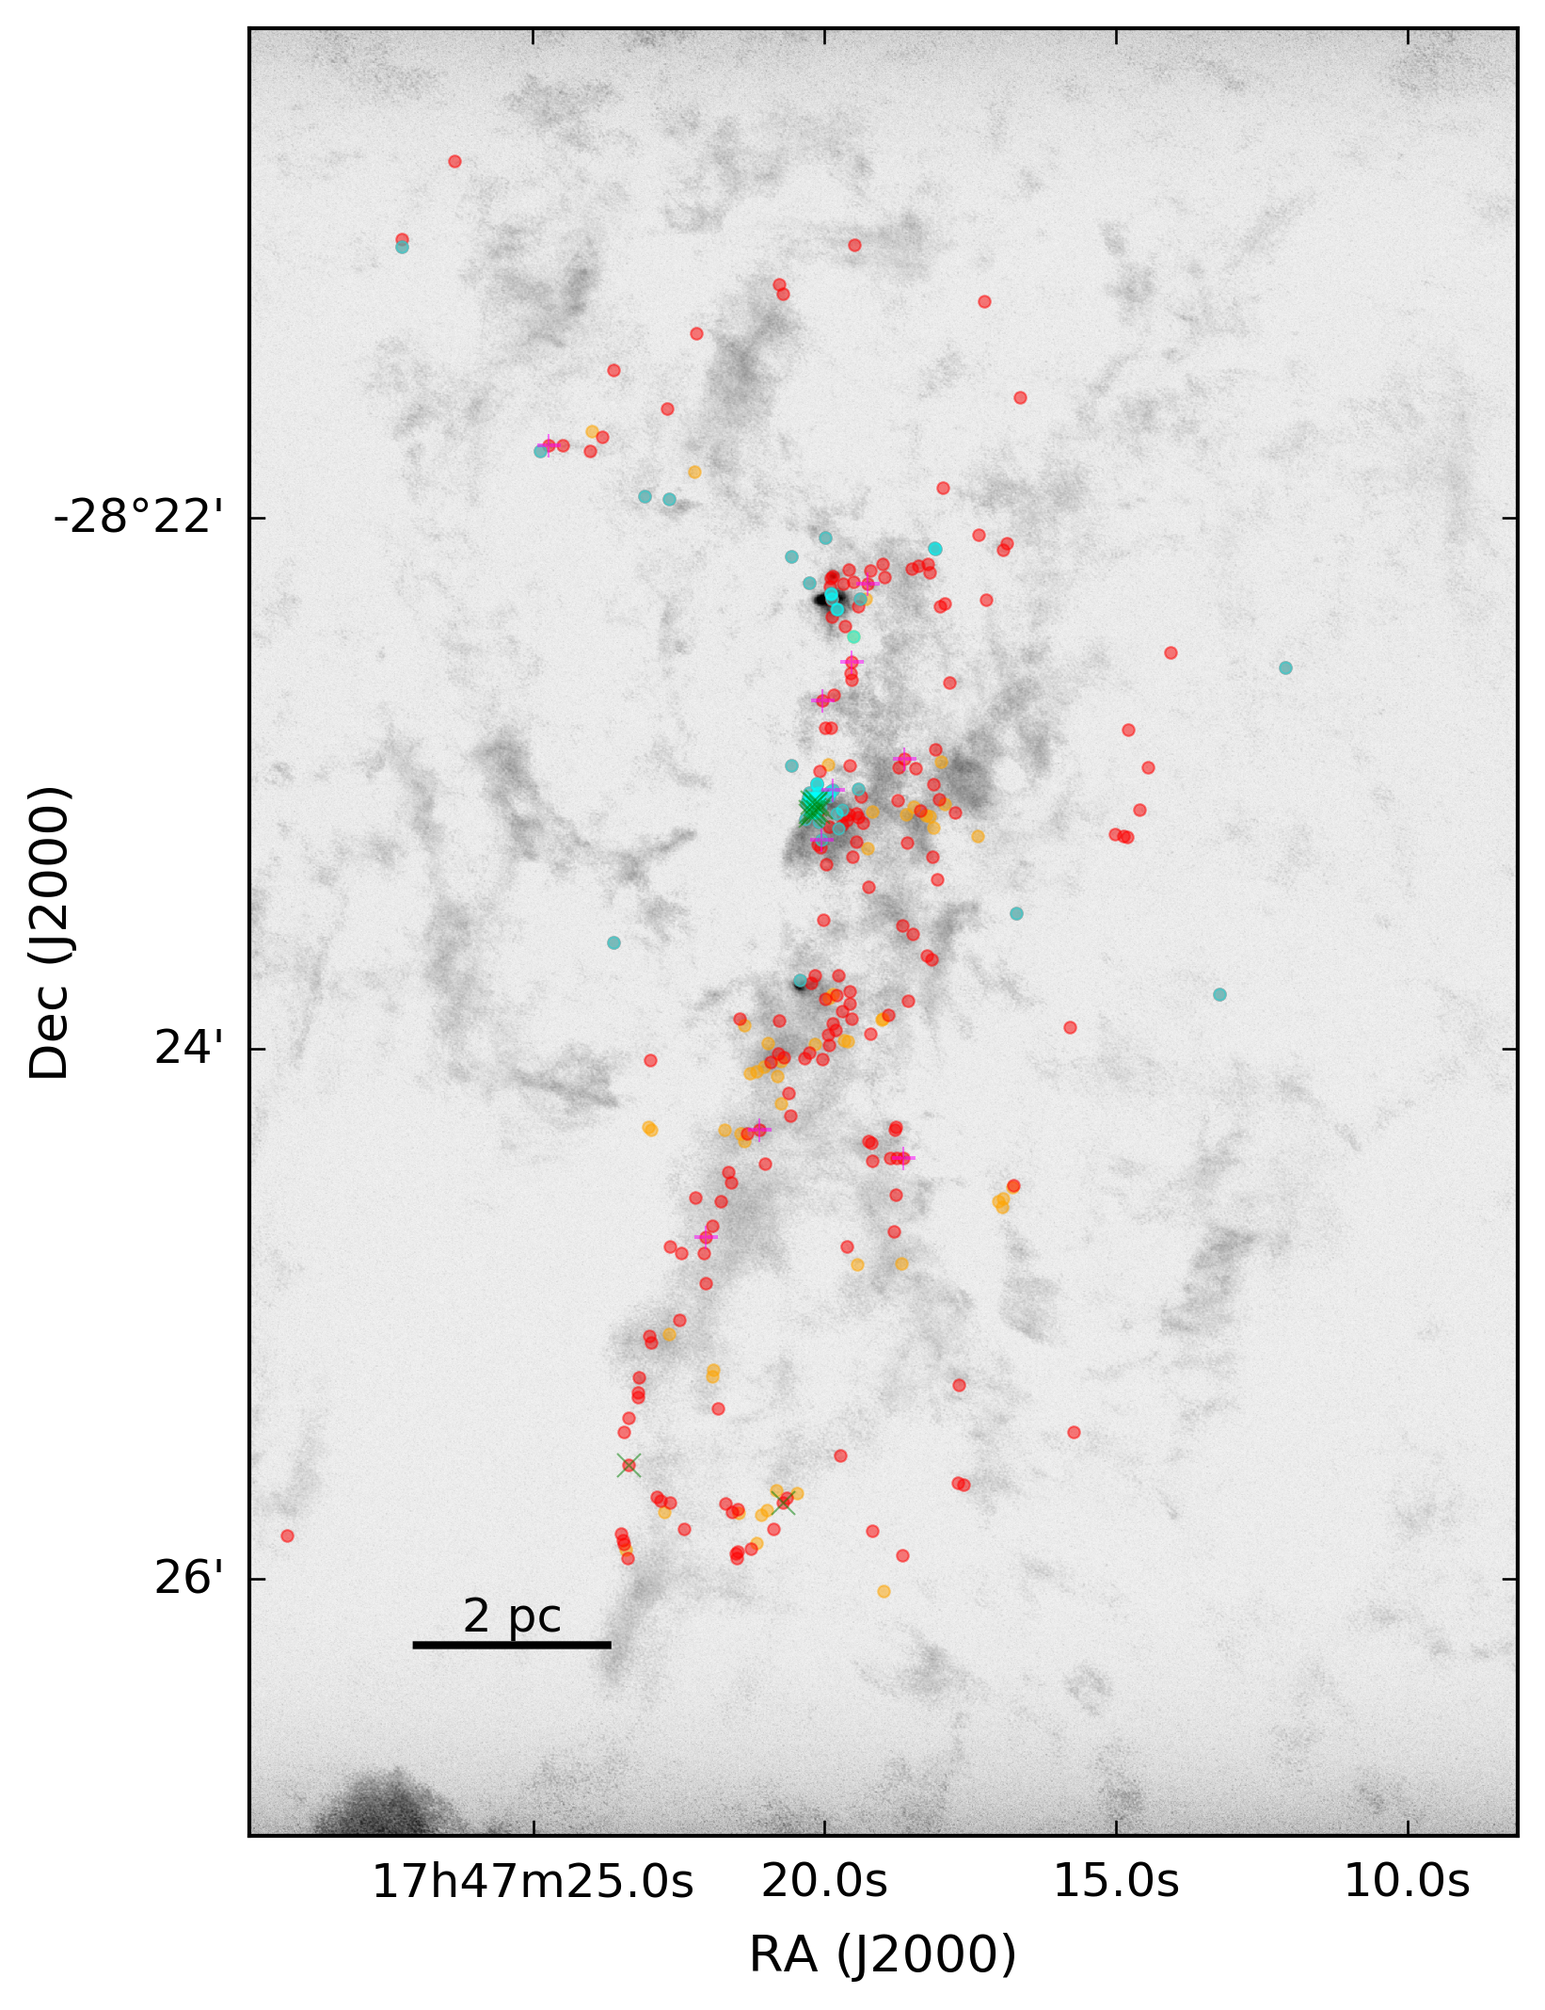
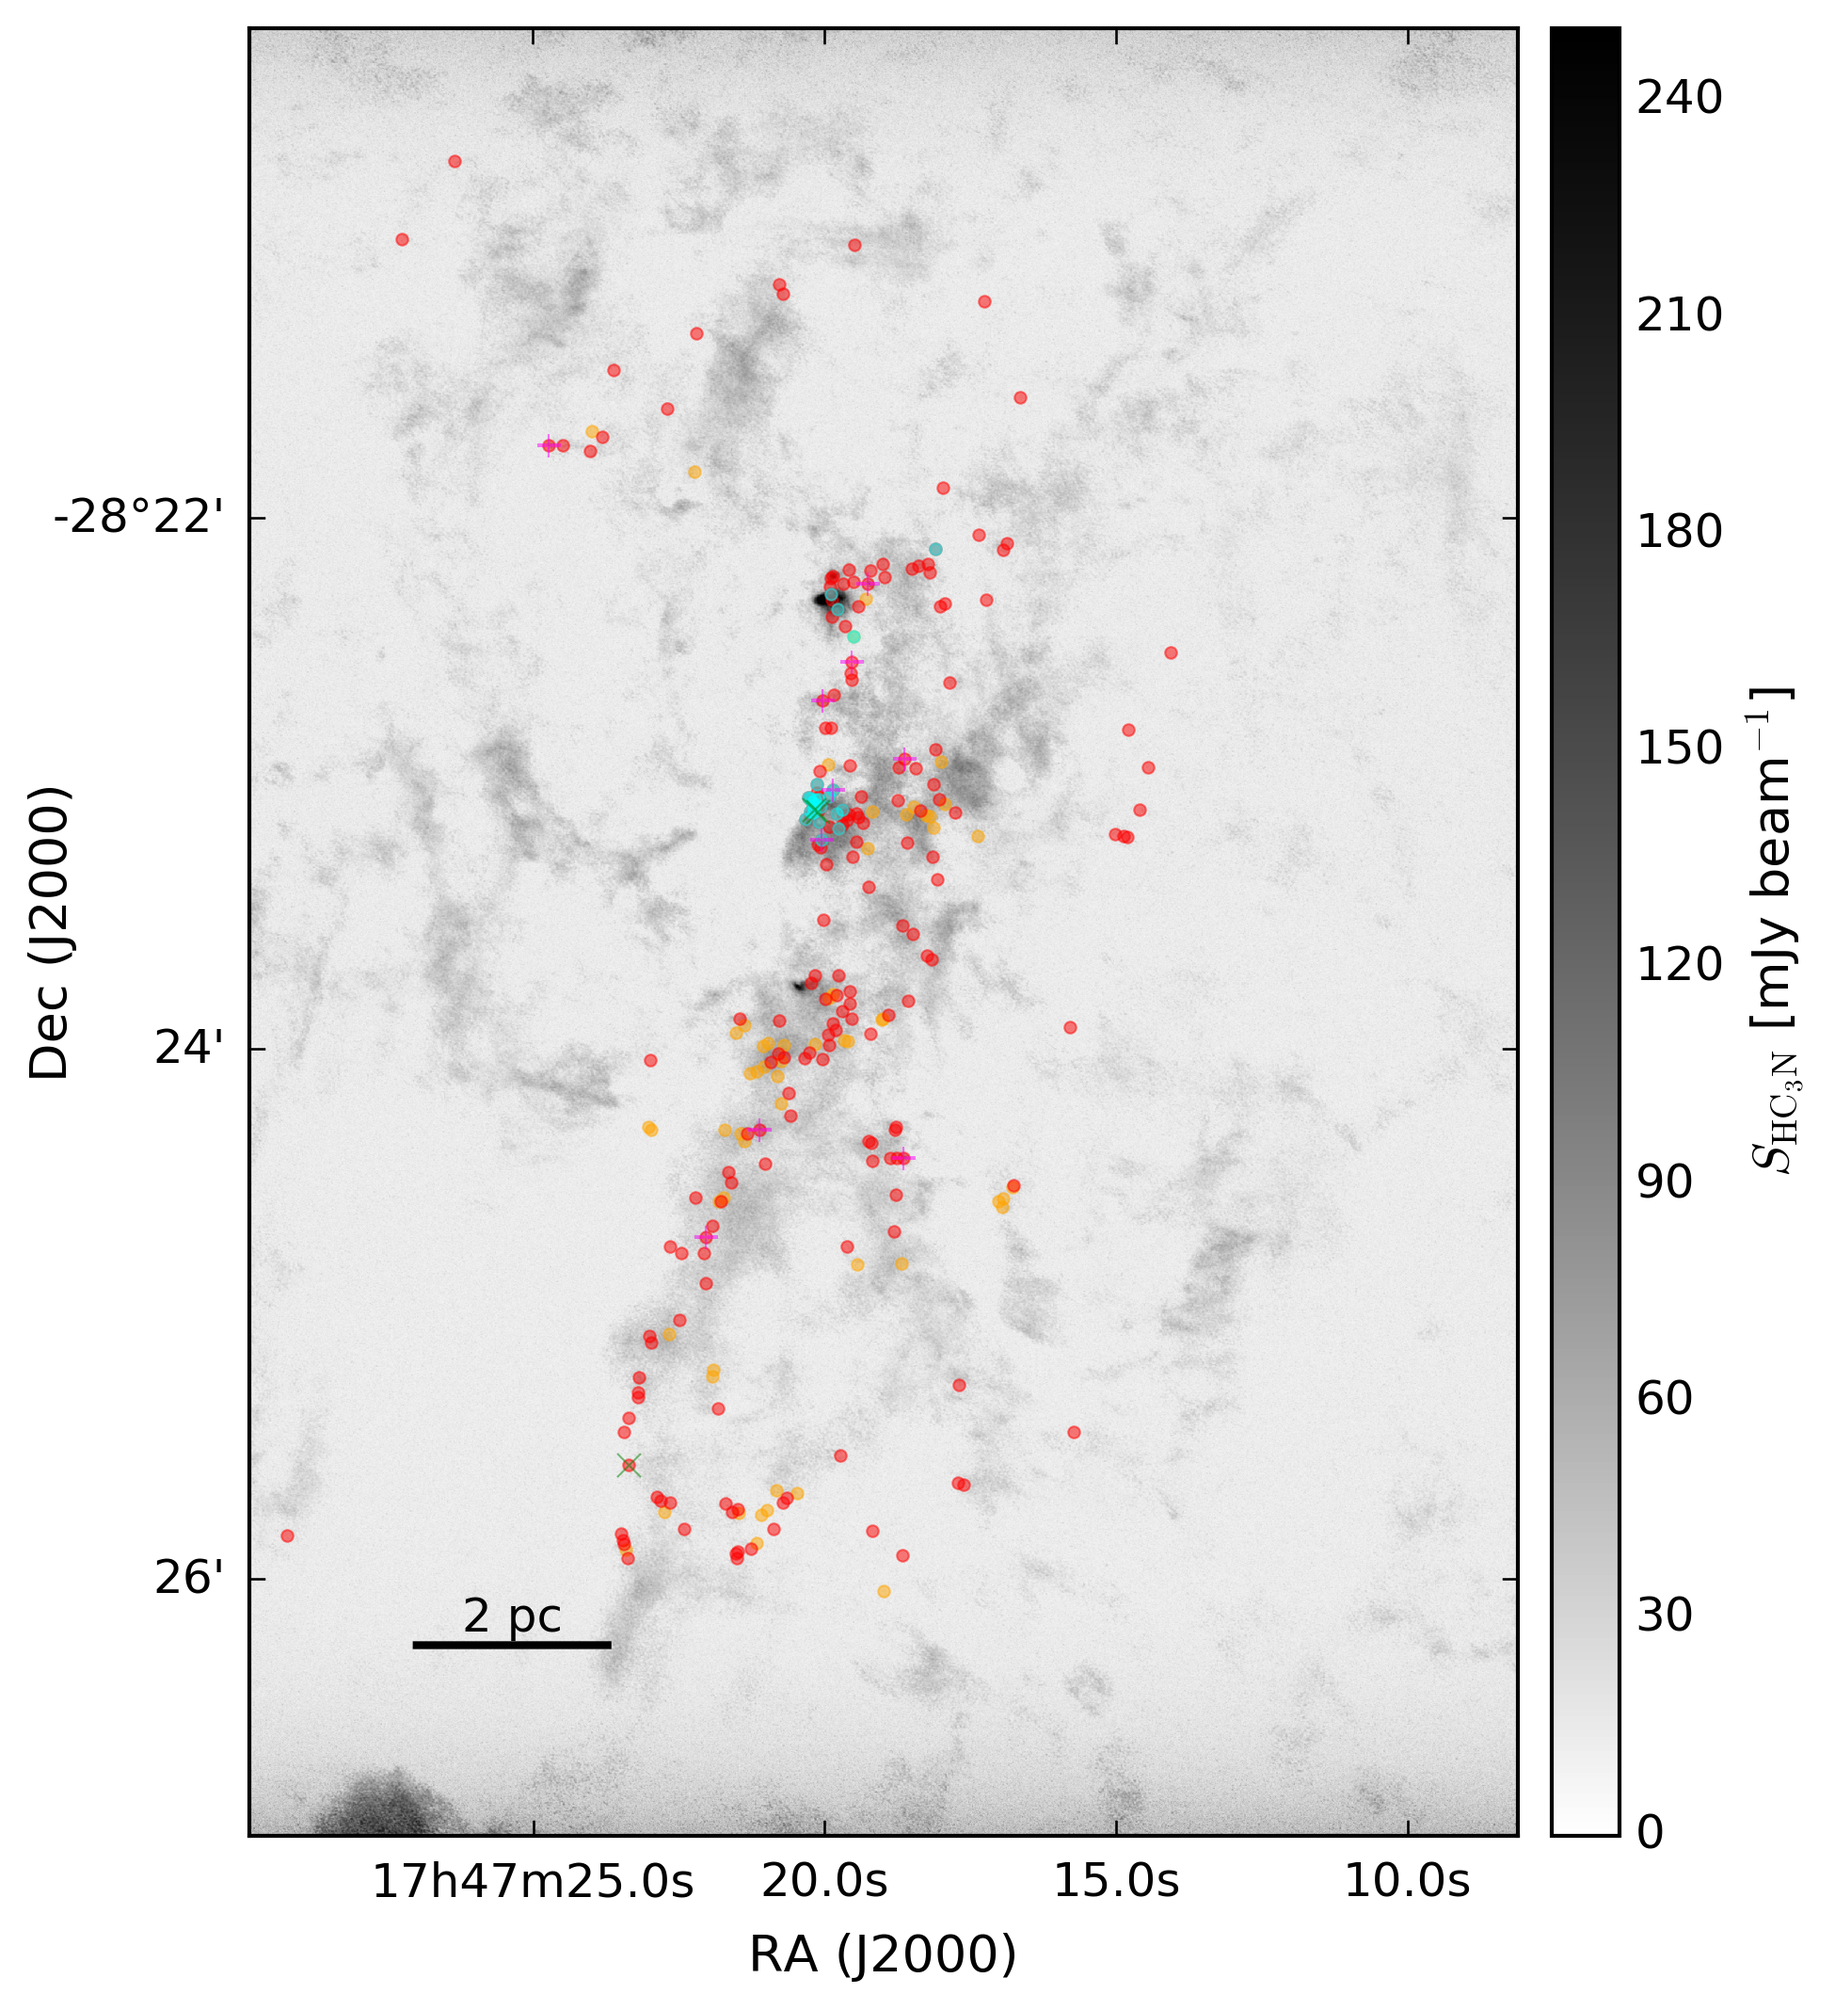
figure fixes

diff --git a/plot_codes/pointsource_overlay.py b/plot_codes/pointsource_overlay.py
@@ -104,6 +104,10 @@ con = ax.contour(cx,
 #ax.axis(lims)
 ax.axis([x1,x2,y1,y2])
 
+
+fig.canvas.draw()
+assert np.abs(ax.bbox._bbox.x1 - 0.95) > 1e-4
+
 cax = fig.add_axes([ax.bbox._bbox.x1+0.01, ax.bbox._bbox.y0, 0.02,
                     ax.bbox._bbox.y1-ax.bbox._bbox.y0])
 cb = fig.colorbar(mappable=im, cax=cax)
@@ -133,8 +137,9 @@ ra.set_ticks(exclude_overlapping=True)
 dec.ticklabels.set_fontsize(tick_fontsize)
 dec.set_ticks(exclude_overlapping=True)
 
-ax.imshow(hdu2.data.squeeze()*1e3, transform=ax.get_transform(wcs.WCS(hdu2.header).celestial),
-          vmax=0.45*1e3, cmap=pl.cm.gray_r, origin='lower', )
+im = ax.imshow(hdu2.data.squeeze()*1e3,
+               transform=ax.get_transform(wcs.WCS(hdu2.header).celestial),
+               vmax=0.45*1e3, cmap=pl.cm.gray_r, origin='lower', )
 tr_fk5 = ax.get_transform("fk5")
 #(x1,y1),(x2,y2) = (1807,2100),(2221,2697)
 (x1,y1),(x2,y2) = mywcs.wcs_world2pix(mylims_fk5, 0)
@@ -150,19 +155,21 @@ make_scalebar(ax, scalebarpos,
               text_offset=1.0*u.arcsec,
              )
 
-cax = fig.add_axes([ax.bbox._bbox.x1+0.01, ax.bbox._bbox.y0, 0.02,
-                    ax.bbox._bbox.y1-ax.bbox._bbox.y0])
-cb = fig.colorbar(mappable=im, cax=cax)
-cb.set_label("$S_{20 cm}$ [mJy beam$^{-1}$]")
-
 #coredots, = ax.plot(cores.ra, cores.dec, 'r.', transform=tr_fk5, markersize=markersize,
 #                    alpha=0.5,
 #                    zorder=50, )
 coredots = plotcores(ax, transform=tr_fk5, markersize=markersize, zorder=50,
                      alpha=0.5)
+
+fig.canvas.draw()
+assert np.abs(ax.bbox._bbox.x1 - 0.95) > 1e-4
+
+cax = fig.add_axes([ax.bbox._bbox.x1+0.01, ax.bbox._bbox.y0, 0.02,
+                    ax.bbox._bbox.y1-ax.bbox._bbox.y0])
+cb = fig.colorbar(mappable=im, cax=cax)
+cb.set_label("$S_{20 \mathrm{cm}}$ [mJy beam$^{-1}$]")
+
 fig.savefig(paths.fpath("cores_on_20cm_continuum.png"), bbox_inches='tight')
-pl.draw()
-pl.show()
 
 
 hdu_h41a = fits.open(paths.Fpath('merge/max/SgrB2_b3_7M_12M.H41a.image.pbcor_max_medsub.fits'))[0]
@@ -204,10 +211,10 @@ fig3.savefig(paths.fpath("cores_on_h41a_peak_saturated.png"), bbox_inches='tight
 
 
 
-linenames = {'HC3N': '\\cyanoacetylene',
-             'HCN': 'HCN',
-             'HNC': 'HNC',
-             'HCOp': 'HCO$^+$',
+linenames = {'HC3N': '\mathrm{HC}_3\mathrm{N}',
+             'HCN': '\mathrm{HCN}',
+             'HNC': '\mathrm{HNC}',
+             'HCOp': '\mathrm{HCO}^+',
             }
 
 for line in ("HC3N","HCN","HNC","HCOp"):
@@ -229,17 +236,22 @@ for line in ("HC3N","HCN","HNC","HCOp"):
     dec.ticklabels.set_fontsize(tick_fontsize)
     dec.set_ticks(exclude_overlapping=True)
 
-    ax.imshow(hdu_line.data.squeeze()*1e3, transform=ax.get_transform(wcs.WCS(hdu_line.header).celestial),
-              vmin=-0.0001*1e3, vmax=0.25*1e3, cmap=pl.cm.gray_r, origin='lower', norm=asinh_norm.AsinhNorm())
+    im = ax.imshow(hdu_line.data.squeeze()*1e3,
+                   transform=ax.get_transform(wcs.WCS(hdu_line.header).celestial),
+                   vmin=-0.0001*1e3, vmax=0.25*1e3, cmap=pl.cm.gray_r,
+                   origin='lower', norm=asinh_norm.AsinhNorm())
     tr_fk5 = ax.get_transform("fk5")
     #(x1,y1),(x2,y2) = (680,350),(2720,3150)
     (x1,y1),(x2,y2) = mywcs.wcs_world2pix(mylims_fk5, 0)
     ax.axis([x1,x2,y1,y2])
 
-    cax = fig.add_axes([ax.bbox._bbox.x1+0.01, ax.bbox._bbox.y0, 0.02,
+    fig3.canvas.draw()
+    assert np.abs(ax.bbox._bbox.x1 - 0.95) > 1e-4
+
+    cax = fig3.add_axes([ax.bbox._bbox.x1+0.01, ax.bbox._bbox.y0, 0.02,
                         ax.bbox._bbox.y1-ax.bbox._bbox.y0])
-    cb = fig.colorbar(mappable=im, cax=cax)
-    cb.set_label("$S_{{\\mathrm{0}}}$ [mJy beam$^{{-1}}$]".format(linenames[line]))
+    cb = fig3.colorbar(mappable=im, cax=cax)
+    cb.set_label("$S_{{{0}}}$ [mJy beam$^{{-1}}$]".format(linenames[line]))
 
     scalebarpos = coordinates.SkyCoord("17:47:27", "-28:26:15.0",
                                        unit=(u.h, u.deg), frame='fk5')
@@ -261,9 +273,12 @@ for line in ("HC3N","HCN","HNC","HCOp"):
                          alpha=0.5)
     fig3.savefig(paths.fpath("cores_on_{0}_peak.png".format(line)), bbox_inches='tight')
 
-    ax.imshow(hdu_line.data.squeeze(), transform=ax.get_transform(wcs.WCS(hdu_line.header).celestial),
-              vmin=-0.001, vmax=0.1, cmap=pl.cm.gray_r, origin='lower', norm=asinh_norm.AsinhNorm())
+    im = ax.imshow(hdu_line.data.squeeze()*1e3,
+                   transform=ax.get_transform(wcs.WCS(hdu_line.header).celestial),
+                   vmin=-0.001*1e3, vmax=0.1*1e3, cmap=pl.cm.gray_r,
+                   origin='lower', norm=asinh_norm.AsinhNorm())
     fig3.savefig(paths.fpath("cores_on_{0}_peak_saturated.png".format(line)), bbox_inches='tight')
+    cb.on_mappable_changed(mappable=im)
 
 
     # Deep South
@@ -273,8 +288,10 @@ for line in ("HC3N","HCN","HNC","HCOp"):
         markersize = 2
     bottomleft = coordinates.SkyCoord("17:47:24.199", "-28:26:02.565", unit=(u.h, u.deg), frame='fk5')
     topright = coordinates.SkyCoord("17:47:17.666", "-28:23:30.722", unit=(u.h, u.deg), frame='fk5')
-    ax.imshow(hdu_line.data.squeeze(), transform=ax.get_transform(wcs.WCS(hdu_line.header).celestial),
-              vmin=-0.0001, vmax=0.25, cmap=pl.cm.gray_r, origin='lower', norm=asinh_norm.AsinhNorm())
+    im = ax.imshow(hdu_line.data.squeeze()*1e3,
+                   transform=ax.get_transform(wcs.WCS(hdu_line.header).celestial),
+                   vmin=-0.0001*1e3, vmax=0.25*1e3, cmap=pl.cm.gray_r, origin='lower',
+                   norm=asinh_norm.AsinhNorm())
     tr_fk5 = ax.get_transform("fk5")
     (x1,y1),(x2,y2) = (1200,434),(2142,1743)
     # wrong (x1,y1),(x2,y2) = tr_fk5.transform_point([bottomleft.ra.deg, bottomleft.dec.deg]),tr_fk5.transform_point([topright.ra.deg, topright.dec.deg])
@@ -282,6 +299,7 @@ for line in ("HC3N","HCN","HNC","HCOp"):
     ax.set_aspect(1)
     ax.axis([x1,x2,y1,y2])
 
+    cb.on_mappable_changed(mappable=im)
 
     hide_scalebar(sb)
     scalebarpos = coordinates.SkyCoord("17:47:23.7", "-28:23:45.0",
@@ -303,8 +321,11 @@ for line in ("HC3N","HCN","HNC","HCOp"):
     fig3.savefig(paths.fpath("cores_on_{0}_peak_DeepSouth.png".format(line)), bbox_inches='tight')
     fig3.savefig(paths.fpath("cores_on_{0}_peak_DeepSouth.pdf".format(line)), bbox_inches='tight')
 
-    ax.imshow(hdu_line.data.squeeze(), transform=ax.get_transform(wcs.WCS(hdu_line.header).celestial),
-              vmin=-0.001, vmax=0.1, cmap=pl.cm.gray_r, origin='lower', norm=asinh_norm.AsinhNorm())
+    im = ax.imshow(hdu_line.data.squeeze()*1e3,
+                   transform=ax.get_transform(wcs.WCS(hdu_line.header).celestial),
+                   vmin=-0.001*1e3, vmax=0.1*1e3, cmap=pl.cm.gray_r,
+                   origin='lower', norm=asinh_norm.AsinhNorm())
+    cb.on_mappable_changed(mappable=im)
     ax.axis([x1,x2,y1,y2])
     fig3.savefig(paths.fpath("cores_on_{0}_peak_DeepSouth_saturated.png".format(line)), bbox_inches='tight')
     fig3.savefig(paths.fpath("cores_on_{0}_peak_DeepSouth_saturated.pdf".format(line)), bbox_inches='tight')
